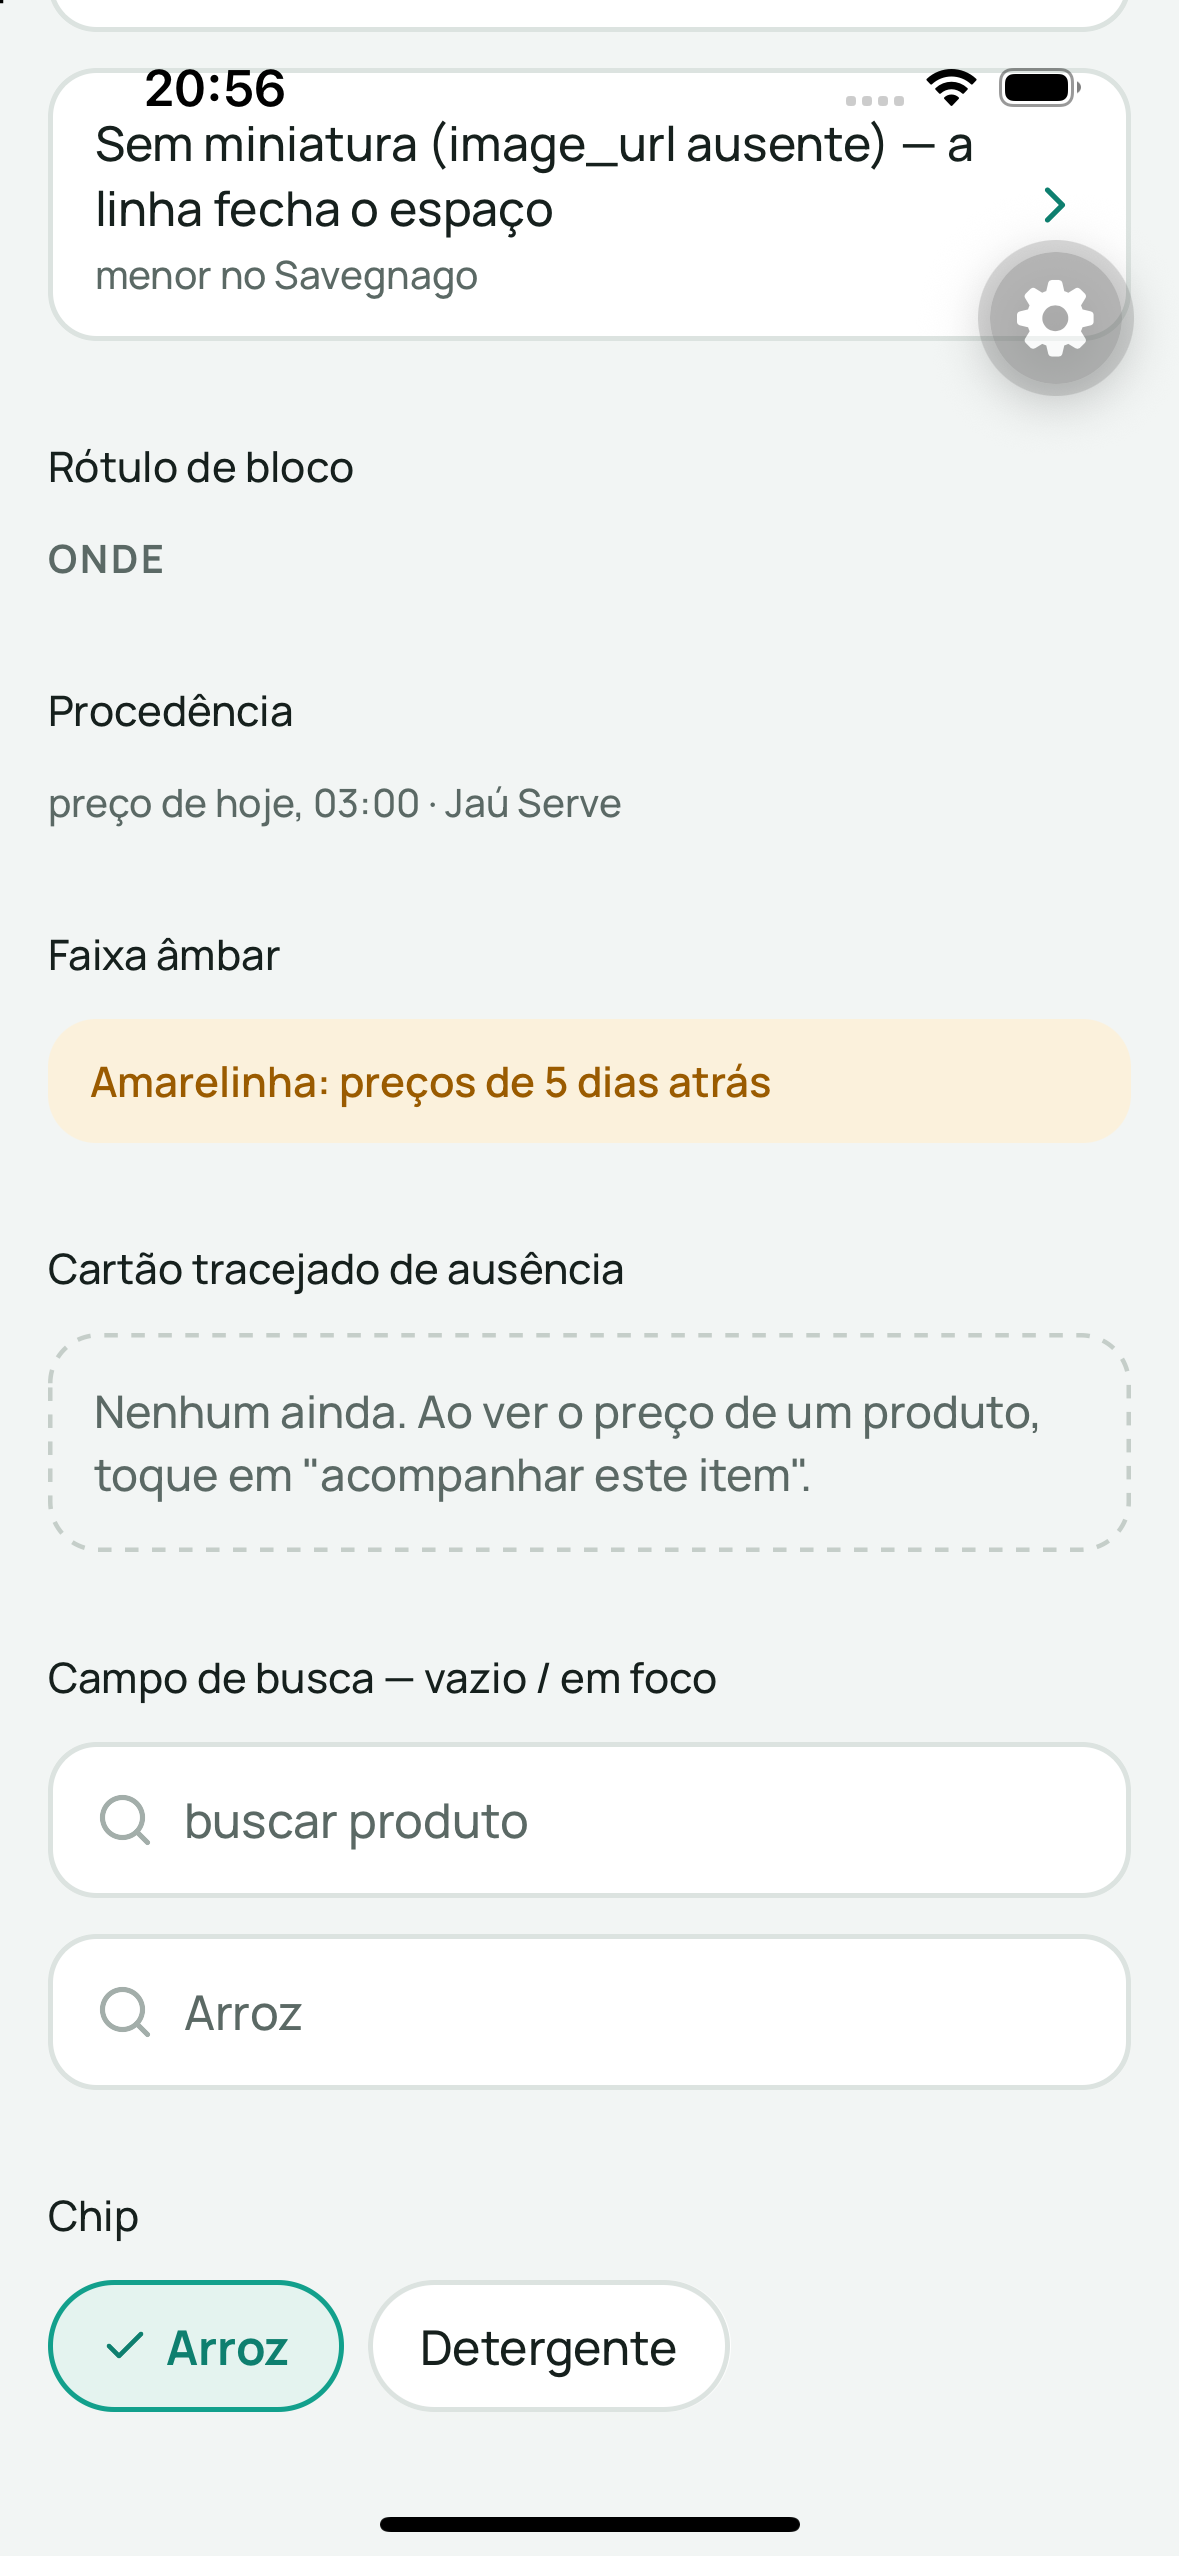
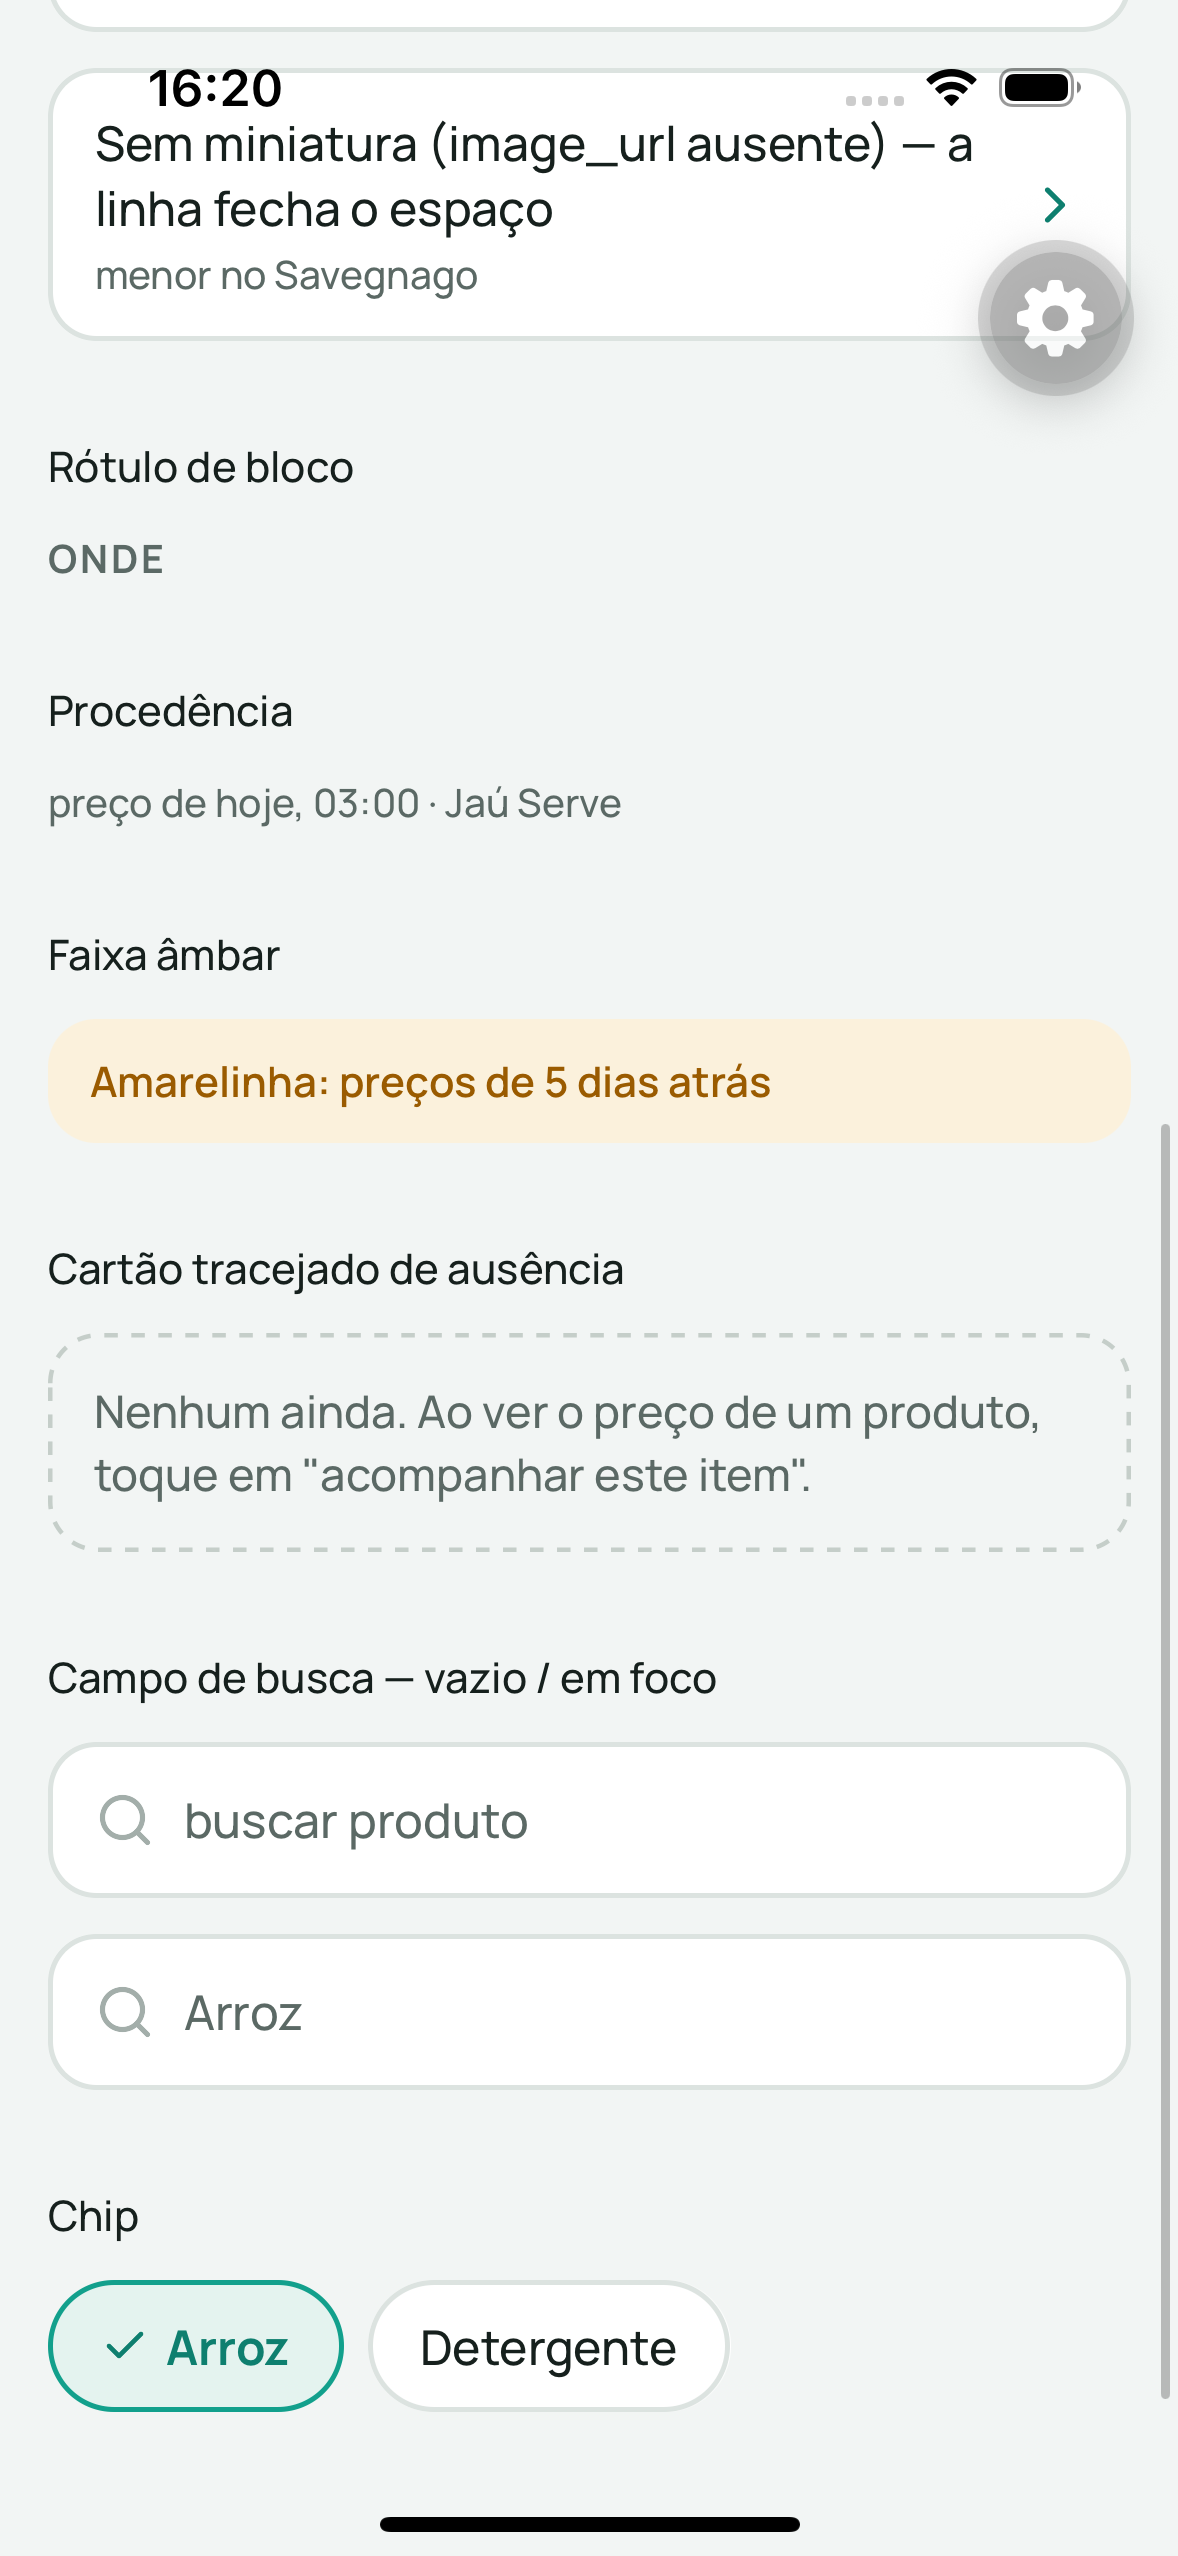
fix(mobile): filled-button background, search-field clear target, drop disabled variant
filled-button: the Etapa 1+2 screenshot showed it with no background, height
or centering. It was the only component using Pressable's function form
`style={({ pressed }) => ...}`; Chip and ListRow use a static style array
and rendered fine. Switched to a static array with pressed tracked in state
via onPressIn/onPressOut. Verified in the simulator: #0E7F6F fill, 52 px,
radius 16, white 16/700 text, centered. Likely nativewind's jsxImportSource
interop mishandling the function form; that mechanism was not traced, only
the correlation and the fix were verified.

filled-button: removed the `disabled` prop and its style. mobile/CLAUDE.md
hard rule: no button is ever disabled waiting on an optional user action.

search-field: the clear (✕) had no explicit touch target (bare 20 px icon).
Now a 44 px target with a -12 px right margin so the icon stays 14 px from
the field edge, mirroring ListRow's removeTarget. Focused border (1.5 px
#12A08C) and ✕-on-text behavior were already correct in code; the old
screenshot just never showed the focused state.

_tokens-preview: dropped the "Desabilitado" example; ScrollView now sets
automaticallyAdjustKeyboardInsets so a focused field scrolls above the
keyboard (previously it was covered, which is why the focused state was
never captured).

Screenshots re-taken on the iPhone15-PoupPreview simulator (393x852) and
replace the two Etapa 1+2 files. A third, ...-search-focus.png, is an
[…]

diff --git a/mobile/components/filled-button.tsx b/mobile/components/filled-button.tsx
@@ -1,18 +1,27 @@
+import { useState } from 'react';
 import { Pressable, Text, StyleSheet, type GestureResponderEvent } from 'react-native';
 import { colors, fontFamily, radii, targets } from '../constants/tokens';
 
 interface FilledButtonProps {
   label: string;
   onPress?: (e: GestureResponderEvent) => void;
-  disabled?: boolean;
 }
 
-export function FilledButton({ label, onPress, disabled }: FilledButtonProps) {
+// Never disabled: mobile/CLAUDE.md — "nenhum botão fica desabilitado
+// esperando o usuário fazer algo opcional". Pressed feedback is tracked in
+// state instead of Pressable's `style={({ pressed }) => ...}` form because
+// under nativewind's jsxImportSource that function form dropped the whole
+// style (no background, height or centering — seen in the Etapa 1+2
+// screenshot); a static style array renders correctly, like Chip and ListRow.
+export function FilledButton({ label, onPress }: FilledButtonProps) {
+  const [pressed, setPressed] = useState(false);
+
   return (
     <Pressable
       onPress={onPress}
-      disabled={disabled}
-      style={({ pressed }) => [styles.button, disabled && styles.disabled, pressed && !disabled && styles.pressed]}
+      onPressIn={() => setPressed(true)}
+      onPressOut={() => setPressed(false)}
+      style={[styles.button, pressed && styles.pressed]}
       accessibilityRole="button"
     >
       <Text style={styles.label}>{label}</Text>
@@ -30,9 +39,6 @@ const styles = StyleSheet.create({
   },
   pressed: {
     opacity: 0.85,
-  },
-  disabled: {
-    opacity: 0.5,
   },
   label: {
     fontFamily: fontFamily.bold,

diff --git a/mobile/components/search-field.tsx b/mobile/components/search-field.tsx
@@ -29,7 +29,7 @@ export function SearchField({ value, onChangeText, placeholder = 'buscar produto
         style={[styles.input, { color: focused ? colors.ink : colors.secondary }]}
       />
       {focused && value.length > 0 && (
-        <Pressable onPress={() => onChangeText('')} accessibilityRole="button" accessibilityLabel="Limpar busca">
+        <Pressable onPress={() => onChangeText('')} accessibilityRole="button" accessibilityLabel="Limpar busca" style={styles.clearTarget}>
           <X size={20} color={colors.absence} strokeWidth={2.2} />
         </Pressable>
       )}
@@ -51,6 +51,13 @@ const styles = StyleSheet.create({
   },
   focused: {
     borderColor: colors.brand,
+  },
+  clearTarget: {
+    width: targets.touch,
+    height: targets.touch,
+    alignItems: 'center',
+    justifyContent: 'center',
+    marginRight: -spacing.md, // touch target stays 44, icon stays 14 from the field's edge (mirrors the search icon)
   },
   input: {
     flex: 1,

diff --git a/mobile/app/_tokens-preview.tsx b/mobile/app/_tokens-preview.tsx
@@ -29,12 +29,15 @@ export default function TokensPreview() {
   const [selected, setSelected] = useState<Record<string, boolean>>({ Arroz: true, Detergente: false });
 
   return (
-    <ScrollView style={{ flex: 1, backgroundColor: colors.background }} contentContainerStyle={{ padding: spacing.xl }}>
+    <ScrollView
+      style={{ flex: 1, backgroundColor: colors.background }}
+      contentContainerStyle={{ padding: spacing.xl }}
+      automaticallyAdjustKeyboardInsets
+    >
       <Text style={{ ...typography.title, color: colors.ink, marginBottom: spacing.xl }}>Design system — preview</Text>
 
       <Section title="Botão preenchido (52 px)">
         <FilledButton label="Usar minha localização ›" onPress={() => {}} />
-        <FilledButton label="Desabilitado" onPress={() => {}} disabled />
       </Section>
 
       <Section title="Texto-link com chevron">
